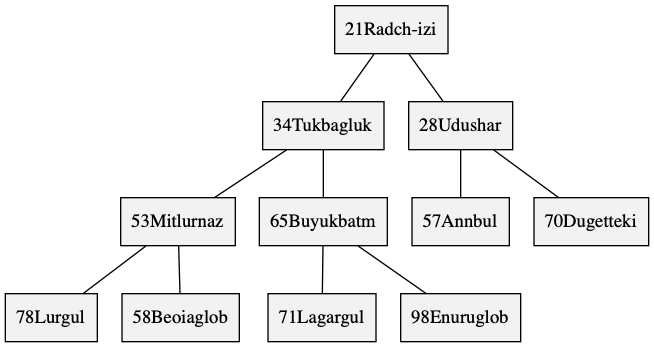
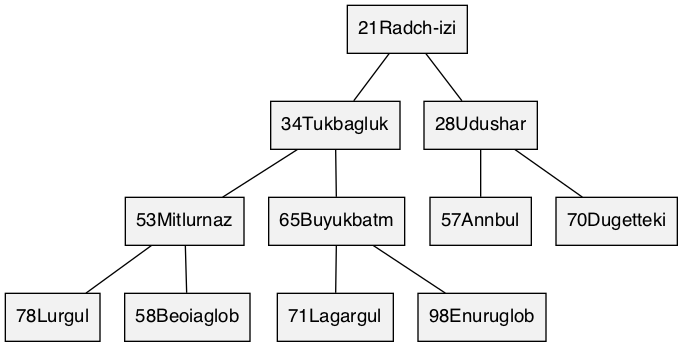
Changed the font to modern.

diff --git a/test/test_heap.h b/test/test_heap.h
@@ -21,9 +21,9 @@ static void PH_(graph)(const struct H_(heap) *const heap,
 	assert(heap && fn);
 	if(!(fp = fopen(fn, "w"))) { perror(fn); return; }
 	fprintf(fp, "digraph {\n"
-		"\tgraph [truecolor=true, bgcolor=transparent];\n"
-		"\tfontface=modern;\n"
-		"\tnode [shape=box, style=filled, fillcolor=\"Gray95\"];\n"
+		"\tgraph [truecolor=true, bgcolor=transparent, fontname=modern];\n"
+		"\tnode [shape=box, style=filled, fillcolor=\"Gray95\","
+		" fontname=modern];\n"
 		/* Google search / Wikipedia says we should draw them with the top down.
 		"\trankdir = BT;\n" */
 		"\tedge [arrowhead = none];\n");
